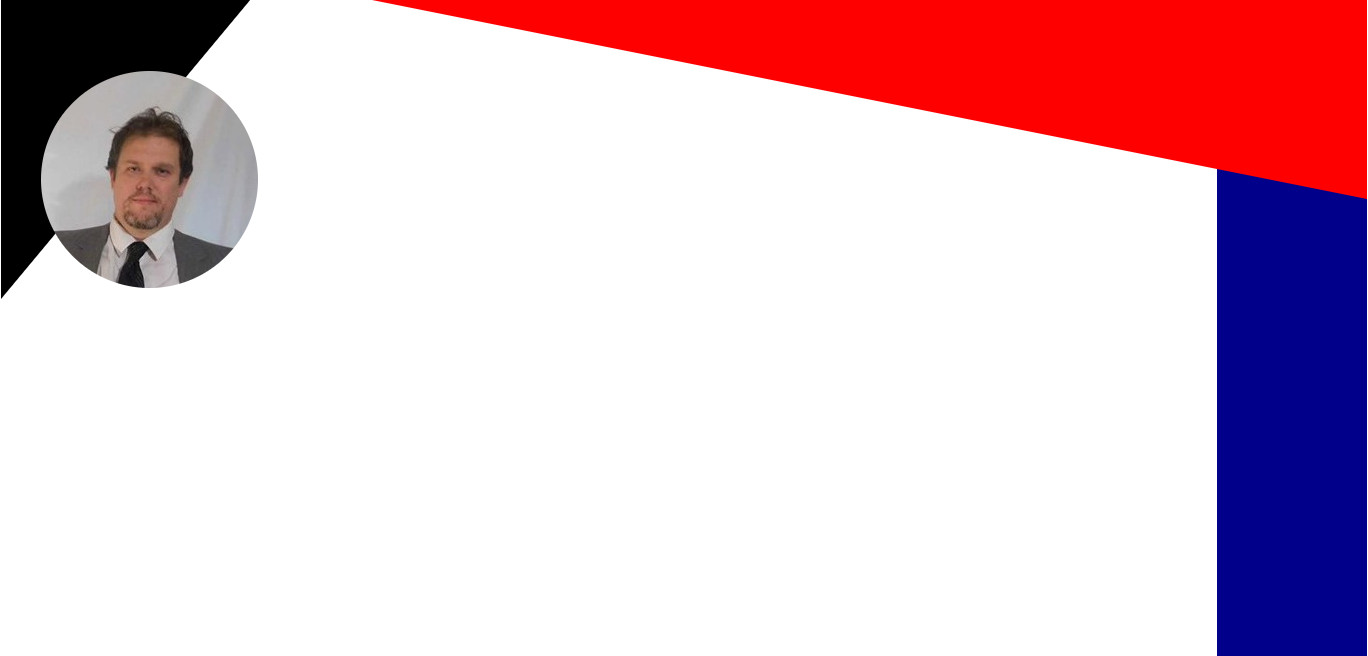
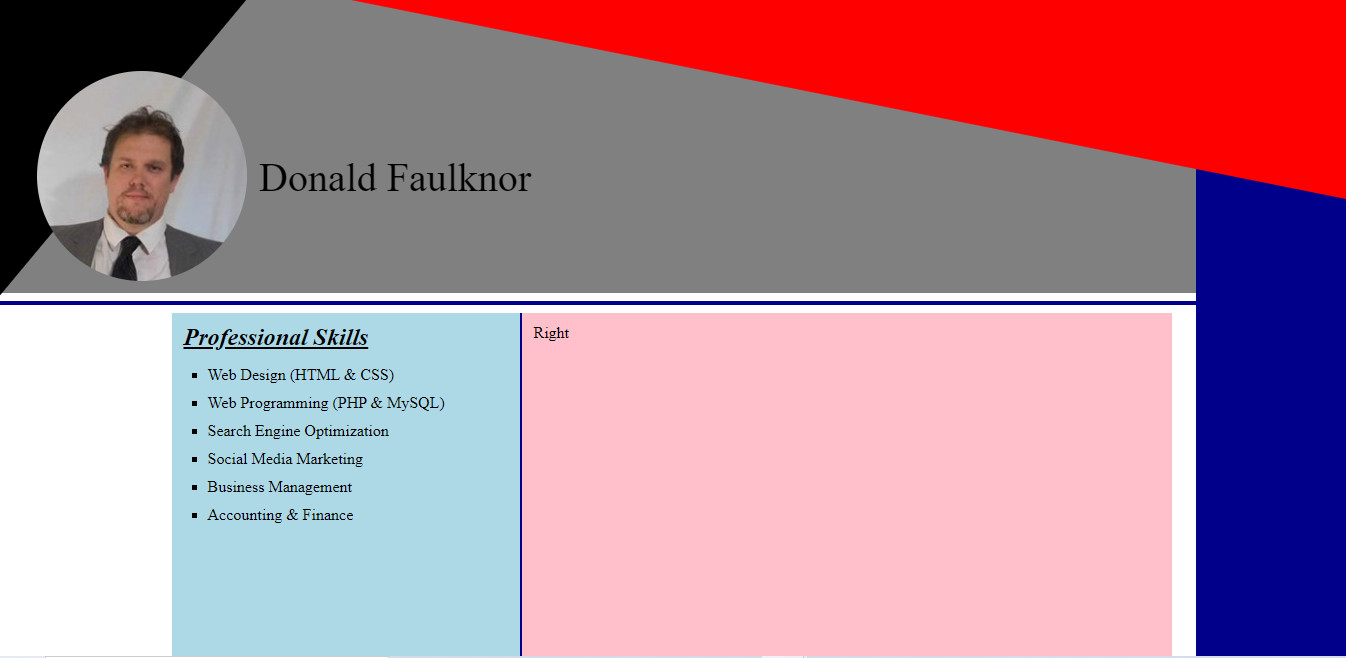
Added more styles and Skills section

diff --git a/index.html b/index.html
@@ -34,7 +34,15 @@
 <div class="columns">
 
   <div class="left-column">
-    Left
+    <h3>Professional Skills</h3>
+    <ul>
+      <li>Web Design (HTML & CSS)</li>
+      <li>Web Programming (PHP & MySQL)</li>
+      <li>Search Engine Optimization</li>
+      <li>Social Media Marketing</li>
+      <li>Business Management</li>
+      <li>Accounting & Finance</li>
+    </ul>
   </div>
   <div class="right-column">
     Right

diff --git a/css/index.css b/css/index.css
@@ -339,6 +339,18 @@ hr {
   background-color: pink;
   min-height: calc(100% - 314px);
 }
+h3 {
+  font-size: 1.5rem;
+  font-weight: bold;
+  font-style: italic;
+  text-decoration: underline;
+  margin-bottom: 12px;
+}
+ul {
+  margin-left: 24px;
+  list-style-type: square;
+  line-height: 1.75;
+}
 /* Set every element's box-sizing to border-box */
 * {
   box-sizing: border-box;

diff --git a/less/index.less b/less/index.less
@@ -288,6 +288,20 @@ hr {
 	min-height:calc(100% - 314px);
 }
 
+h3 {
+	font-size:1.5rem;
+	font-weight:bold;
+	font-style:italic;
+	text-decoration:underline;
+	margin-bottom:12px;
+}
+
+ul {
+	margin-left:24px;
+	list-style-type:square;
+	line-height:1.75;
+}
+
 /* Set every element's box-sizing to border-box */
 * {
     box-sizing: border-box;
